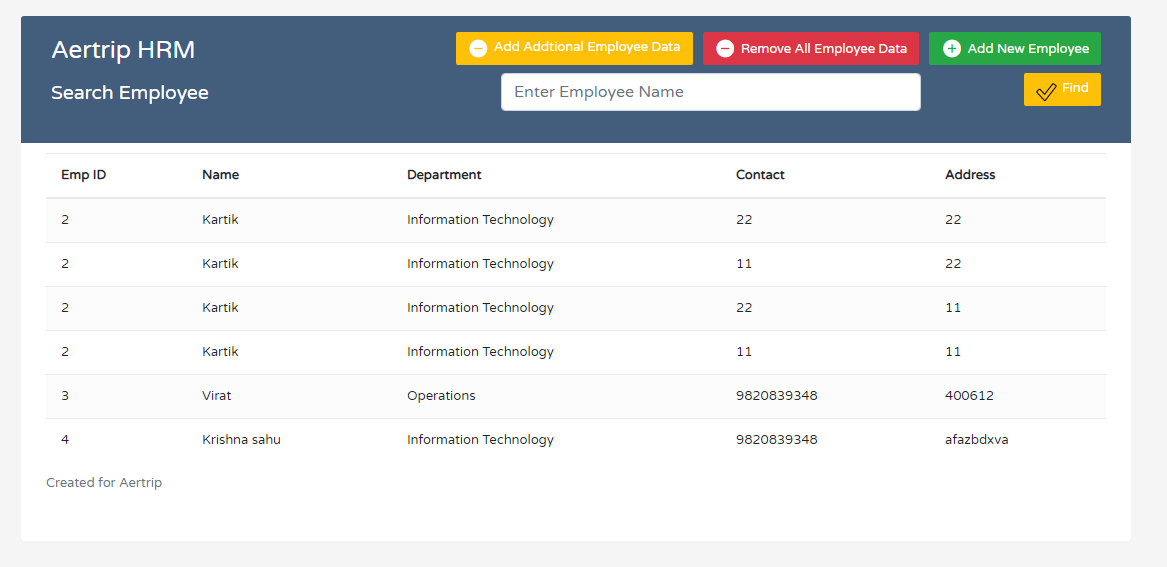
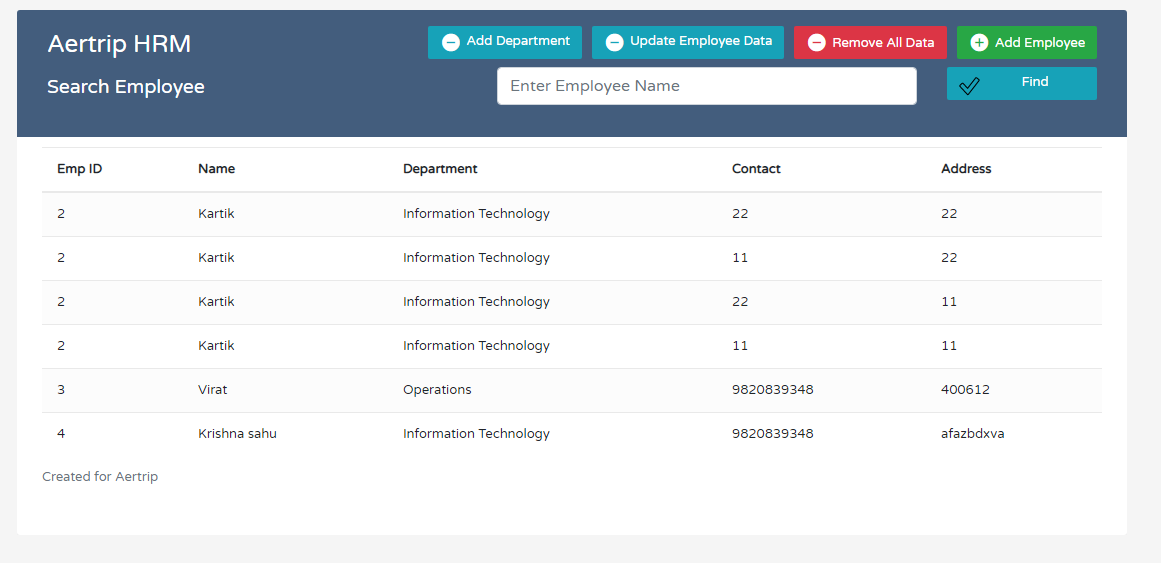
Added Create Department API and output image

diff --git a/index.php b/index.php
@@ -26,8 +26,8 @@
               <div class="col-sm-10">
                 <a href="#addEmployeeModal" id="insert_employee_modal" class="btn btn-success" data-toggle="modal"><i class="material-icons">&#xE147;</i> <span>Add Employee</span></a>
                 <a href="#deleteAllModal" class="btn btn-danger" data-toggle="modal"><i class="material-icons">&#xE15C;</i> <span>Remove All Data</span></a>
-                <a href="#updateEmployeeModal" id="update_employee_modal" class="btn btn-warning" data-toggle="modal"><i class="material-icons">&#xE15C;</i>Update Employee Data</span></a>
-                <a href="#addDeptModal" id="update_employee_modal" class="btn btn-warning" data-toggle="modal"><i class="material-icons">&#xE15C;</i>Add Department</span></a>
+                <a href="#updateEmployeeModal" id="update_employee_modal" class="btn btn-info" data-toggle="modal"><i class="material-icons">&#xE15C;</i>Update Employee Data</span></a>
+                <a href="#addDeptModal" id="update_employee_modal" class="btn btn-info" data-toggle="modal"><i class="material-icons">&#xE15C;</i>Add Department</span></a>
 
               </div>
             </div>
@@ -43,7 +43,7 @@
                 </form>
               </div>
               <div class="col-sm-2">
-                <button id="empsearchbtn" class="btn btn-warning"><i class="material-icons">✅</i> Find</span></button>
+                <button id="empsearchbtn" class="btn btn-block btn-info"><i class="material-icons">✅</i> Find</span></button>
               </div>
             </div>
           </div>
